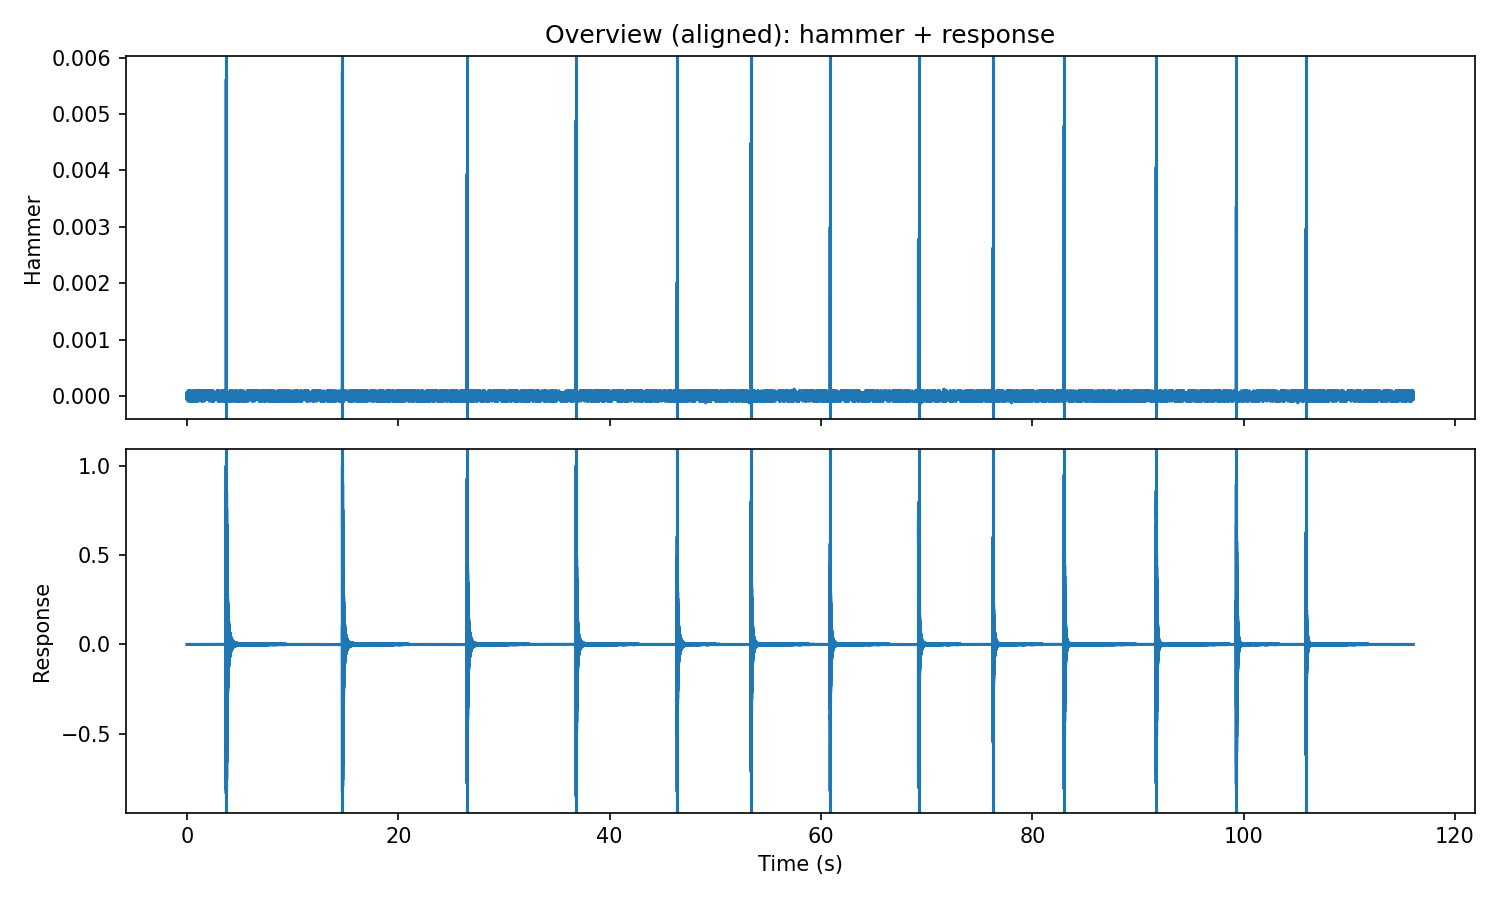
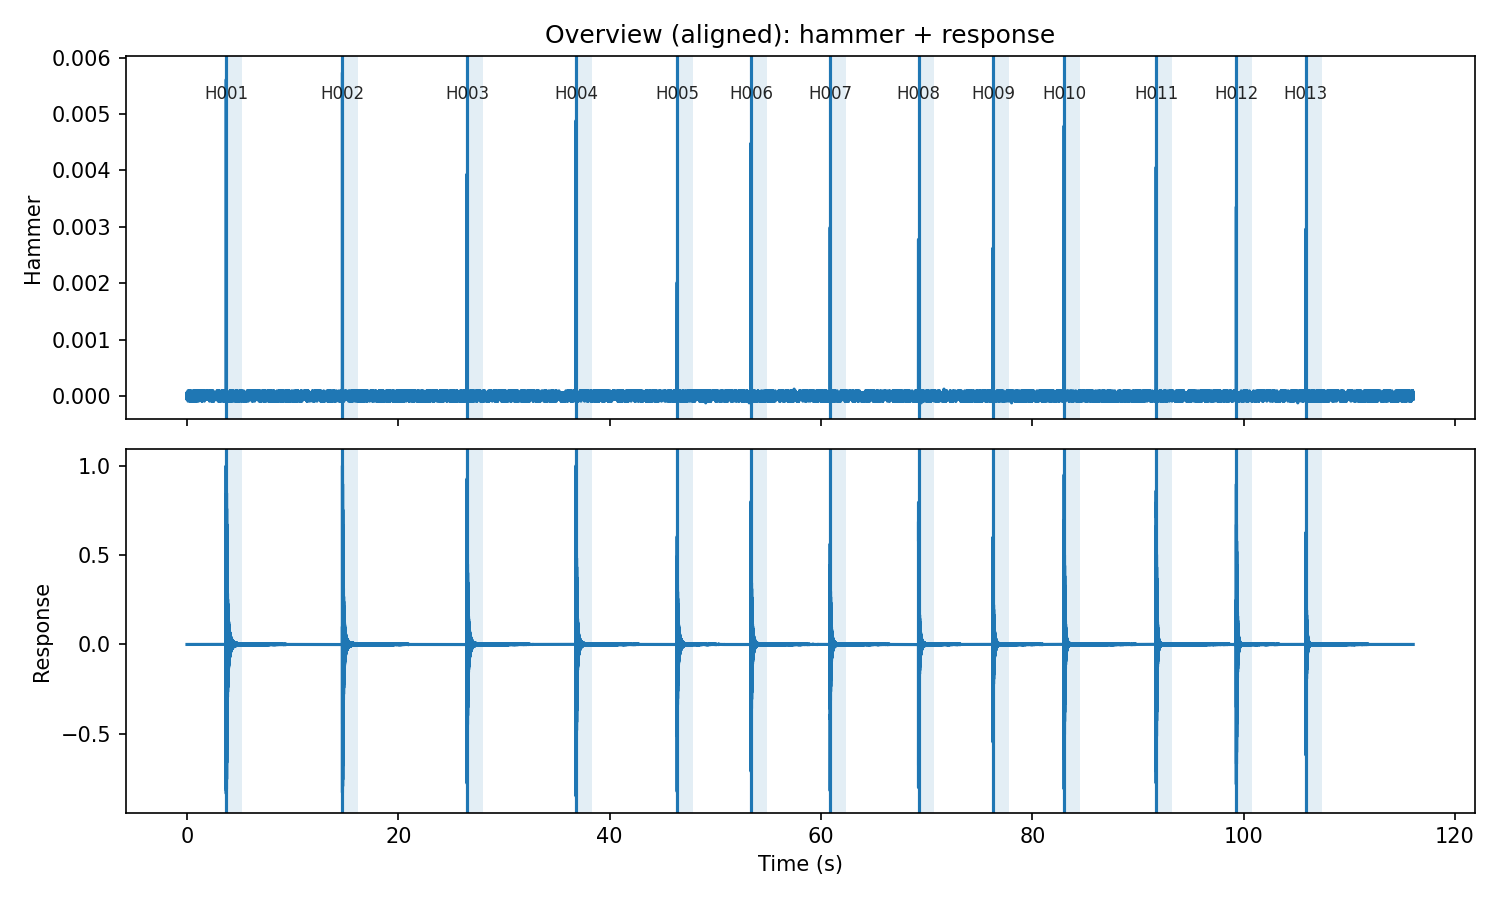
report ajout de l'id des hits

diff --git a/src/wav_to_freq/impact_io.py b/src/wav_to_freq/impact_io.py
@@ -32,8 +32,13 @@ class StereoWav:
 @dataclass(frozen=True)
 class HitWindow:
     """One extracted hit window, aligned on the detected impact peak."""
+    hit_id: int             # 1-based
     hit_index: int          # sample index in the full signal
-    t0: float               # seconds (hit_index / fs)
+
+    t_hit: float            # seconds
+    t_start: float          # seconds
+    t_end: float            # seconds
+
     hammer: np.ndarray      # windowed hammer samples
     accel: np.ndarray       # windowed accel samples
 
@@ -203,25 +208,40 @@ def extract_hit_windows(
     Windows are clipped if they exceed signal bounds (those hits are dropped).
     """
     fs = float(stereo.fs)
-    n_pre = int(round(pre_s * fs))
-    n_post = int(round(post_s * fs))
+    pre_n = int(round(pre_s * fs))
+    post_n = int(round(post_s * fs))
+    n_samples = len(stereo.hammer)
+    
+    hit_id: int = 0
 
-    out: list[HitWindow] = []
-    for idx in hit_indices:
-        idx = int(idx)
-        i0 = idx - n_pre
-        i1 = idx + n_post
+    windows: list[HitWindow] = []
+    for hit_index in hit_indices:
+
+        hit_id+=1
+        hit_index = int(hit_index)
+
+        i0 = max(0, hit_index - pre_n)
+        i1 = min(n_samples, hit_index + post_n)
         if i0 < 0 or i1 > stereo.hammer.size:
             continue
-        out.append(
+
+        
+        t_hit = hit_index / fs
+        t_start = i0 /fs
+        t_end = i1 / fs
+
+        windows.append(
             HitWindow(
-                hit_index=idx,
-                t0=float(idx / fs),
+                hit_id=hit_id,
+                hit_index=hit_index,
+                t_hit=t_hit,
+                t_start=t_start,
+                t_end=t_end,
                 hammer=stereo.hammer[i0:i1].copy(),
                 accel=stereo.accel[i0:i1].copy(),
             )
         )
-    return out
+    return windows
 
 
 def prepare_hits(
@@ -245,7 +265,7 @@ def prepare_hits(
     """
     stereo = load_stereo_wav(wav_path, hammer_channel=hammer_channel)
 
-    hit_idx, thr = detect_hits(
+    hit_index, thr = detect_hits(
         stereo.hammer,
         stereo.fs,
         baseline_s=baseline_s,
@@ -254,10 +274,10 @@ def prepare_hits(
         polarity=polarity,
     )
 
-    windows = extract_hit_windows(stereo, hit_idx, pre_s=pre_s, post_s=post_s)
+    windows = extract_hit_windows(stereo, hit_index, pre_s=pre_s, post_s=post_s)
 
     report = HitDetectionReport(
-        n_hits_found=int(len(hit_idx)),
+        n_hits_found=int(len(hit_index)),
         n_hits_used=int(len(windows)),
         threshold=float(thr),
         min_separation_s=float(min_separation_s),

diff --git a/src/wav_to_freq/reporting/plots.py b/src/wav_to_freq/reporting/plots.py
@@ -64,6 +64,7 @@ def plot_overview_two_channels(
 
     hammer = np.asarray(stereo.hammer)
     accel = np.asarray(stereo.accel)
+    hit_labels = [f"H{i+1:03d}" for i in range(len(windows))]
 
     n = min(hammer.size, accel.size)
 
@@ -79,6 +80,9 @@ def plot_overview_two_channels(
         sharex=True,
         figsize=(10, 6),
     )
+
+    _add_hit_annotations(ax_h, stereo.fs, windows, hit_labels, label_every=1)
+    _add_hit_annotations(ax_a, stereo.fs, windows, hit_labels, label_every=0)  # no labels on bottom
 
     ax_h.plot(t, hammer[:n_plot])
     ax_h.set_title("Overview (aligned): hammer + response")
@@ -100,3 +104,32 @@ def plot_overview_two_channels(
     fig.savefig(out_path, dpi=150)
     plt.close(fig)
     return out_path
+
+def _add_hit_annotations(ax, fs, windows, labels, y_text=None, label_every=1):
+    # y_text: where to put labels in axis coords (None => auto)
+    if y_text is None:
+        y_text = 0.92  # near top of axis (axes fraction)
+
+    w: HitWindow
+
+    for i, (w, lab) in enumerate(zip(windows, labels)):
+        # assuming w.start_idx, w.end_idx, w.hit_idx exist
+        t0 = float(w.t_start)
+        t1 = float(w.t_end)
+        th = float(w.t_hit)
+
+        # alternating shading
+        ax.axvspan(t0, t1, alpha=0.12, zorder=0)
+
+        # hit marker
+        ax.axvline(th, lw=1, alpha=0.35)
+
+        # optional label (only every N hits)
+        if label_every and (i % label_every == 0):
+            ax.text(
+                th, y_text, lab,
+                transform=ax.get_xaxis_transform(),  # x in data, y in axes fraction
+                ha="center", va="top",
+                fontsize=8, alpha=0.85,
+            )
+

diff --git a/src/wav_to_freq/reporting/preprocess.py b/src/wav_to_freq/reporting/preprocess.py
@@ -95,11 +95,6 @@ def write_preprocess_report(
     report_md = out_dir / "report_preprocess.md"
     report_md.write_text(mdd.to_markdown(), encoding="utf-8")
 
-
-
     return PreprocessReportArtifacts(
         report_md=report_md,
     )
-
-
-
